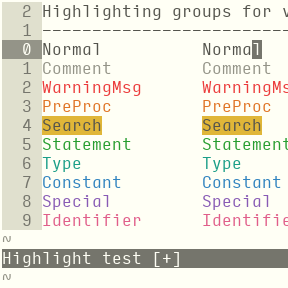
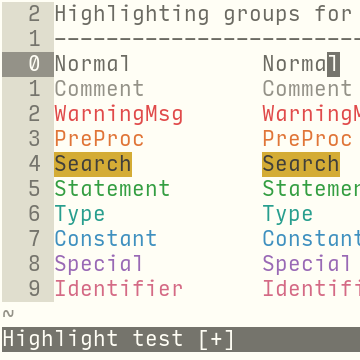
overhaul

diff --git a/README.md b/README.md
@@ -7,8 +7,8 @@
 <table>
 <tr><td align="center"><strong>office-dark</strong></td><td align="center"><strong>office-light</strong></td></tr>
 <tr>
-<td><img src="/img/screenshot-office-dark.png" alt="screenshot of the office-dark vim theme" width="288" /></td>
-<td align="center"><img src="/img/screenshot-office-light.png" alt="screenshot of the office-light vim theme" width="288" /></td>
+<td><img src="/img/screenshot-office-dark.png" alt="screenshot of the office-dark vim theme" width="360" /></td>
+<td align="center"><img src="/img/screenshot-office-light.png" alt="screenshot of the office-light vim theme" width="360" /></td>
 </tr>
 </table>
 
